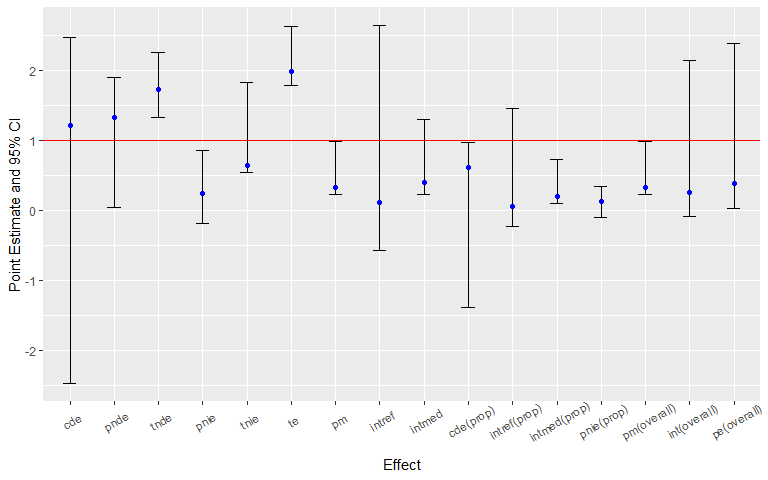
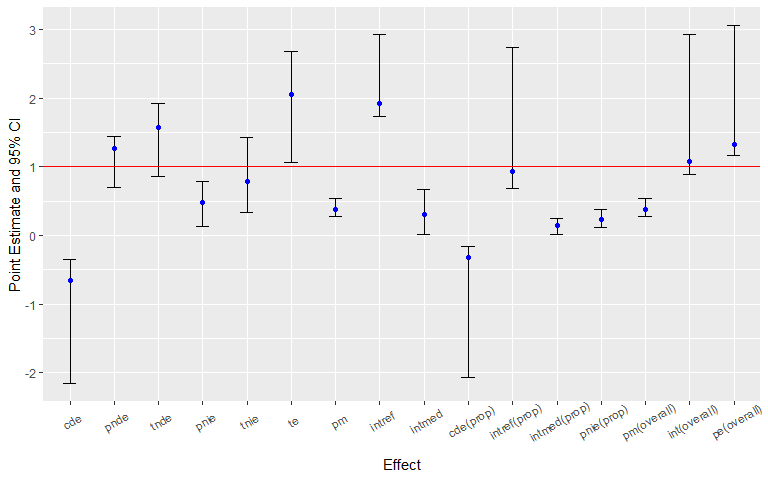
update readme

diff --git a/README.md b/README.md
@@ -1,17 +1,18 @@
-About the Package <img src="man/figures/logo.png" align="right" width="300" />
-==============================================================================
+CMAverse <img src="man/figures/logo.png" align="right" width="300" />
+=====================================================================
+
+About the Package
+-----------------
 
 The R package `CMAverse` provides a suite of functions conducting causal
 mediation analysis including `cmdag` for DAG visualization, `cmest` for
 statistical modeling and `cmsens` for sensitivity analysis.
 
-DAG Visualization
------------------
+### DAG Visualization
 
 `cmdag` visualizes the scientific setting via a DAG.
 
-Statistical Modeling
---------------------
+### Statistical Modeling
 
 `cmest` implements six causal mediation analysis approaches including
 *the regression-based approach* by [Valeri et
@@ -304,15 +305,13 @@ al. (2017)](https://www.ncbi.nlm.nih.gov/pmc/articles/PMC5285457/).
 </ol>
 </section>
 
-Multiple Imputation
--------------------
+### Multiple Imputation
 
 `cmest` provides options to perform multiple imputation for a dataset
 with missing values via the `mice` package, estimate the causal effects
 with each of the imputed datasets and pool the results together.
 
-Sensitivity Analysis
---------------------
+### Sensitivity Analysis
 
 `cmsens` conducts sensitivity analysis for unmeasured confounding via
 the *E-value* approach by [Vanderweele et
@@ -327,7 +326,7 @@ analysis for measurement error is currently available for *the
 regression-based approach* and *the g-formula approach*.
 
 Installation
-============
+------------
 
 The latest version can be installed via:
 
@@ -338,7 +337,7 @@ Load `CMAverse`:
     library(CMAverse)
 
 Quickstart Guide
-================
+----------------
 
 We illustrate the general workflow of the `CMAverse` package by a quick
 example. Firstly, let’s simulate some data and plot the DAG of the
@@ -392,23 +391,23 @@ Summarizing and plotting the results:
     ## Direct counterfactual imputation estimation with 
     ##  bootstrap standard errors, percentile confidence intervals and p-values 
     ##  
-    ##              Estimate Std.error  95% CIL 95% CIU  P.val    
-    ## cde           1.21497   2.26052 -2.47557   2.466    0.8    
-    ## pnde          1.33559   0.78559  0.04586   1.895    0.4    
-    ## tnde          1.73505   0.37712  1.33380   2.255 <2e-16 ***
-    ## pnie          0.24911   0.41200 -0.18441   0.864    0.4    
-    ## tnie          0.64857   0.64905  0.53822   1.823 <2e-16 ***
-    ## te            1.98416   0.40241  1.78599   2.633 <2e-16 ***
-    ## pm            0.32687   0.33692  0.23134   0.990 <2e-16 ***
-    ## intref        0.12062   1.63110 -0.57063   2.648    0.8    
-    ## intmed        0.39946   0.45104  0.23378   1.294 <2e-16 ***
-    ## cde(prop)     0.61234   1.09480 -1.38712   0.976    0.8    
-    ## intref(prop)  0.06079   0.87416 -0.22547   1.461    0.8    
-    ## intmed(prop)  0.20132   0.26985  0.10010   0.725 <2e-16 ***
-    ## pnie(prop)    0.12555   0.18259 -0.10587   0.336    0.4    
-    ## pm(overall)   0.32687   0.33692  0.23134   0.990 <2e-16 ***
-    ## int(overall)  0.26212   1.12482 -0.08580   2.151    0.8    
-    ## pe(overall)   0.38766   1.09480  0.02370   2.387 <2e-16 ***
+    ##               Estimate Std.error   95% CIL 95% CIU  P.val    
+    ## cde          -0.658963  0.753200 -2.155124  -0.347 <2e-16 ***
+    ## pnde          1.260381  0.341023  0.703075   1.437 <2e-16 ***
+    ## tnde          1.566422  0.481788  0.860943   1.920 <2e-16 ***
+    ## pnie          0.484661  0.260754  0.134236   0.784 <2e-16 ***
+    ## tnie          0.790702  0.448194  0.334669   1.434 <2e-16 ***
+    ## te            2.051083  0.664573  1.067875   2.683 <2e-16 ***
+    ## pm            0.385505  0.118009  0.276553   0.540 <2e-16 ***
+    ## intref        1.919344  0.534888  1.740029   2.926 <2e-16 ***
+    ## intmed        0.306041  0.280879  0.012723   0.671    0.4    
+    ## cde(prop)    -0.321276  0.841134 -2.061961  -0.165 <2e-16 ***
+    ## intref(prop)  0.935771  0.892701  0.685890   2.742 <2e-16 ***
+    ## intmed(prop)  0.149209  0.105678  0.009747   0.250    0.4    
+    ## pnie(prop)    0.236295  0.109643  0.113553   0.375 <2e-16 ***
+    ## pm(overall)   0.385505  0.118009  0.276553   0.540 <2e-16 ***
+    ## int(overall)  1.084980  0.912099  0.888015   2.926 <2e-16 ***
+    ## pe(overall)   1.321276  0.841134  1.165199   3.062 <2e-16 ***
     ## ---
     ## Signif. codes:  0 '***' 0.001 '**' 0.01 '*' 0.05 '.' 0.1 ' ' 1
 
@@ -425,13 +424,13 @@ analysis for unmeasured confounding:
     ## Sensitivity Analysis For Unmeasured Confounding 
     ## 
     ## Evalues on the ratio scale: 
-    ##         estRR   lowerRR  upperRR Evalue.estRR Evalue.lowerRR Evalue.upperRR
-    ## cde  1.581659 0.2981774 8.389788     2.540818       1.000000             NA
-    ## pnde 1.655315 0.9269371 2.956045     2.696830       1.000000             NA
-    ## tnde 1.924621 1.4569848 2.542350     3.258617       2.272963             NA
-    ## pnie 1.098562 0.8104973 1.489009     1.427615       1.000000             NA
-    ## tnie 1.277288 0.7910952 2.062287     1.872416       1.000000             NA
-    ## te   2.114315 1.5709906 2.845546     3.649245       2.518102             NA
+    ##          estRR   lowerRR  upperRR Evalue.estRR Evalue.lowerRR Evalue.upperRR
+    ## cde  0.7851671 0.4572158 1.348351     1.863935             NA              1
+    ## pnde 1.5881930 1.2432983 2.028763     2.554715       1.793291             NA
+    ## tnde 1.7769932 1.2573858 2.511325     2.952030       1.826274             NA
+    ## pnie 1.1946879 0.9907263 1.440639     1.676965       1.000000             NA
+    ## tnie 1.3367092 0.9689338 1.844080     2.007591       1.000000             NA
+    ## te   2.1229522 1.3174447 3.420960     3.666964       1.964141             NA
 
 Assume that the continuous pre-exposure confounder was measured with
 error. Sensitivity analysis using regression calibration with a set of
@@ -452,23 +451,23 @@ Summarizing and plotting the results:
     ## Measurement error 1: 
     ## 0.1
     ## Measurement error correction for measurement error 1: 
-    ##               Estimate Std.error   95% CIL 95% CIU  P.val    
-    ## cde            1.19554   2.00762  -3.48784   0.950    0.8    
-    ## pnde           1.17471   0.65886  -0.07400   1.582    0.4    
-    ## tnde           1.57518   1.11042  -0.71699   1.971    0.4    
-    ## pnie           0.25785   0.33003   0.02725   0.687 <2e-16 ***
-    ## tnie           0.65833   0.39499  -0.05483   0.938    0.4    
-    ## te             1.83304   0.97184  -0.11083   2.178    0.4    
-    ## pm             0.35914   0.11164   0.19328   0.468 <2e-16 ***
-    ## intref        -0.02083   1.48686  -0.15462   3.441    0.4    
-    ## intmed         0.40047   0.48112  -0.65646   0.394    0.4    
-    ## cde(prop)      0.65222   6.69072  -0.24788  13.792    0.4    
-    ## intref(prop)  -0.01136   6.70680 -13.13816   1.048    0.8    
-    ## intmed(prop)   0.21847   1.25079   0.14523   2.722 <2e-16 ***
-    ## pnie(prop)     0.14067   1.24420  -2.38016   0.311    0.4    
-    ## pm(overall)    0.35914   0.11164   0.19328   0.468 <2e-16 ***
-    ## int(overall)   0.20711   5.45838 -10.41587   1.217    0.4    
-    ## pe(overall)    0.34778   6.69072 -12.79197   1.248    0.4    
+    ##              Estimate Std.error  95% CIL 95% CIU  P.val    
+    ## cde          -0.65674   1.15974 -2.54844   0.047    0.4    
+    ## pnde          1.19921   0.29399  1.08291   1.777 <2e-16 ***
+    ## tnde          1.51534   0.44059  1.00878   2.093 <2e-16 ***
+    ## pnie          0.50405   0.07742  0.14731   0.326 <2e-16 ***
+    ## tnie          0.82018   0.21541  0.09792   0.635 <2e-16 ***
+    ## te            2.01939   0.39193  1.33069   2.251 <2e-16 ***
+    ## pm            0.40615   0.10805  0.07154   0.341 <2e-16 ***
+    ## intref        1.85595   1.17693  1.03627   3.789 <2e-16 ***
+    ## intmed        0.31613   0.25010 -0.21801   0.383    0.4    
+    ## cde(prop)    -0.32522   0.87462 -1.91334   0.038    0.4    
+    ## intref(prop)  0.91906   0.96821  0.68638   2.842 <2e-16 ***
+    ## intmed(prop)  0.15655   0.15395 -0.16667   0.201    0.4    
+    ## pnie(prop)    0.24961   0.07084  0.06766   0.243 <2e-16 ***
+    ## pm(overall)   0.40615   0.10805  0.07154   0.341 <2e-16 ***
+    ## int(overall)  1.07561   0.83390  0.81258   2.675 <2e-16 ***
+    ## pe(overall)   1.32522   0.87462  0.96153   2.913 <2e-16 ***
     ## ---
     ## Signif. codes:  0 '***' 0.001 '**' 0.01 '*' 0.05 '.' 0.1 ' ' 1
     ## ----------------------------------------------------------------
@@ -476,23 +475,23 @@ Summarizing and plotting the results:
     ## Measurement error 2: 
     ## 0.2
     ## Measurement error correction for measurement error 2: 
-    ##               Estimate Std.error   95% CIL 95% CIU  P.val    
-    ## cde           1.124562  1.770799 -1.412103   2.219    0.8    
-    ## pnde          1.189999  0.491102  0.608884   1.772 <2e-16 ***
-    ## tnde          1.656714  0.348845  1.411586   2.226 <2e-16 ***
-    ## pnie          0.304301  0.169844 -0.010145   0.413    0.4    
-    ## tnie          0.771016  0.179175  0.607145   1.000 <2e-16 ***
-    ## te            1.961015  0.416827  1.518569   2.435 <2e-16 ***
-    ## pm            0.393172  0.143507  0.262331   0.608 <2e-16 ***
-    ## intref        0.065437  1.374961 -0.622166   2.136    0.8    
-    ## intmed        0.466715  0.263536  0.349860   0.939 <2e-16 ***
-    ## cde(prop)     0.573459  0.927109 -0.923981   0.992    0.8    
-    ## intref(prop)  0.033369  0.794391 -0.357000   1.316    0.8    
-    ## intmed(prop)  0.237997  0.199035  0.187004   0.614 <2e-16 ***
-    ## pnie(prop)    0.155175  0.082509 -0.010518   0.178    0.4    
-    ## pm(overall)   0.393172  0.143507  0.262331   0.608 <2e-16 ***
-    ## int(overall)  0.271365  0.983915 -0.159368   1.930    0.8    
-    ## pe(overall)   0.426541  0.927109  0.007874   1.924 <2e-16 ***
+    ##              Estimate Std.error  95% CIL 95% CIU  P.val    
+    ## cde          -0.64918   1.68791 -4.21245  -0.470 <2e-16 ***
+    ## pnde          1.14238   0.31107  0.71326   1.407 <2e-16 ***
+    ## tnde          1.44868   0.51621  0.65003   1.770 <2e-16 ***
+    ## pnie          0.48309   0.51446  0.02835   1.161    0.4    
+    ## tnie          0.78939   0.56448 -0.08118   1.166    0.4    
+    ## te            1.93177   0.50443  1.06403   2.279 <2e-16 ***
+    ## pm            0.40864   0.32604 -0.11970   0.612    0.4    
+    ## intref        1.79156   1.71757  1.53814   5.317 <2e-16 ***
+    ## intmed        0.30631   0.26512 -0.15208   0.412    0.8    
+    ## cde(prop)    -0.33606   1.86465 -4.20911  -0.220 <2e-16 ***
+    ## intref(prop)  0.92742   2.15885  0.74632   5.300 <2e-16 ***
+    ## intmed(prop)  0.15856   0.14745 -0.15172   0.181    0.8    
+    ## pnie(prop)    0.25007   0.28615  0.01136   0.640    0.4    
+    ## pm(overall)   0.40864   0.32604 -0.11970   0.612    0.4    
+    ## int(overall)  1.08598   2.04926  0.81904   5.150 <2e-16 ***
+    ## pe(overall)   1.33606   1.86465  1.21986   5.209 <2e-16 ***
     ## ---
     ## Signif. codes:  0 '***' 0.001 '**' 0.01 '*' 0.05 '.' 0.1 ' ' 1
     ## ----------------------------------------------------------------
@@ -501,22 +500,22 @@ Summarizing and plotting the results:
     ## 0.3
     ## Measurement error correction for measurement error 3: 
     ##              Estimate Std.error  95% CIL 95% CIU  P.val    
-    ## cde           0.93539   1.33169  0.55883   3.806 <2e-16 ***
-    ## pnde          0.85948   0.65775  0.79198   2.423 <2e-16 ***
-    ## tnde          1.51864   0.36142  1.50884   2.316 <2e-16 ***
-    ## pnie          0.48632   0.32667 -0.04064   0.733    0.4    
-    ## tnie          1.14548   0.54798  0.14157   1.443 <2e-16 ***
-    ## te            2.00496   0.38865  1.97110   2.868 <2e-16 ***
-    ## pm            0.57132   0.24570  0.06535   0.639 <2e-16 ***
-    ## intref       -0.07591   0.88643 -1.91126   0.276    0.4    
-    ## intmed        0.65915   0.38534 -0.12810   0.740    0.8    
-    ## cde(prop)     0.46654   0.65712  0.23537   1.873 <2e-16 ***
-    ## intref(prop) -0.03786   0.44631 -0.94378   0.129    0.4    
-    ## intmed(prop)  0.32876   0.16882 -0.04454   0.330    0.8    
-    ## pnie(prop)    0.24256   0.14066 -0.02121   0.323    0.4    
-    ## pm(overall)   0.57132   0.24570  0.06535   0.639 <2e-16 ***
-    ## int(overall)  0.29090   0.53916 -0.85406   0.444    0.4    
-    ## pe(overall)   0.53346   0.65712 -0.87339   0.765    0.4    
+    ## cde          -0.63264   1.18666 -0.76658   1.974    0.8    
+    ## pnde          1.14597   0.23318  1.53113   2.055 <2e-16 ***
+    ## tnde          1.39469   0.30994  1.48052   2.254 <2e-16 ***
+    ## pnie          0.36014   0.28039  0.23721   0.937 <2e-16 ***
+    ## tnie          0.60885   0.51436  0.02607   1.168 <2e-16 ***
+    ## te            1.75482   0.51208  1.97122   3.178 <2e-16 ***
+    ## pm            0.34696   0.17514  0.01311   0.380 <2e-16 ***
+    ## intref        1.77861   1.07266  0.03970   2.664    0.4    
+    ## intmed        0.24871   0.33770 -0.46463   0.356    0.8    
+    ## cde(prop)    -0.36051   0.50942 -0.38418   0.804    0.8    
+    ## intref(prop)  1.01355   0.52337  0.02168   1.337    0.4    
+    ## intmed(prop)  0.14173   0.15566 -0.23645   0.146    0.8    
+    ## pnie(prop)    0.20523   0.07787  0.11231   0.298 <2e-16 ***
+    ## pm(overall)   0.34696   0.17514  0.01311   0.380 <2e-16 ***
+    ## int(overall)  1.15528   0.46607  0.03569   1.123    0.4    
+    ## pe(overall)   1.36051   0.50942  0.19632   1.384 <2e-16 ***
     ## ---
     ## Signif. codes:  0 '***' 0.001 '**' 0.01 '*' 0.05 '.' 0.1 ' ' 1
     ## ----------------------------------------------------------------
@@ -550,22 +549,22 @@ Summarizing and plotting the results:
     ## 
     ## Measurement error correction for measurement error 1: 
     ##               Estimate Std.error   95% CIL 95% CIU  P.val    
-    ## cde           2.936984  1.629964  0.136378   3.655 <2e-16 ***
-    ## pnde          1.435524  0.698628  0.621053   2.238 <2e-16 ***
-    ## tnde          1.776879  0.766657  1.058271   2.924 <2e-16 ***
-    ## pnie          0.406562  0.398353 -0.001866   0.967    0.4    
-    ## tnie          0.747917  0.340365  0.193597   0.979 <2e-16 ***
-    ## te            2.183441  0.789186  1.311018   3.203 <2e-16 ***
-    ## pm            0.342540  0.184586  0.099034   0.528 <2e-16 ***
-    ## intref       -1.501460  1.566942 -1.801200   2.007    0.8    
-    ## intmed        0.341354  0.365300 -0.174947   0.731    0.4    
-    ## cde(prop)     1.345117  0.688591  0.052206   1.549 <2e-16 ***
-    ## intref(prop) -0.687658  0.584253 -0.692864   0.626    0.8    
-    ## intmed(prop)  0.156338  0.165593 -0.062540   0.337    0.4    
-    ## pnie(prop)    0.186203  0.156157 -0.006196   0.369    0.4    
-    ## pm(overall)   0.342540  0.184586  0.099034   0.528 <2e-16 ***
-    ## int(overall) -0.531320  0.709605 -0.755404   0.861    0.8    
-    ## pe(overall)  -0.345117  0.688591 -0.549158   0.948    0.8    
+    ## cde          -1.852395  0.859350 -1.956986   0.069    0.4    
+    ## pnde          1.056125  1.129122  0.693214   3.273 <2e-16 ***
+    ## tnde          1.534459  1.006836  1.124244   3.300 <2e-16 ***
+    ## pnie          0.610474  0.769398 -0.652758   1.040    0.8    
+    ## tnie          1.088808  1.060440 -0.655003   1.878    0.4    
+    ## te            2.144934  0.948680  1.301169   3.674 <2e-16 ***
+    ## pm            0.507619  0.384139 -0.240492   0.715    0.4    
+    ## intref        2.908520  1.342883  1.051971   4.386 <2e-16 ***
+    ## intmed        0.478334  0.374663 -0.023435   0.838    0.4    
+    ## cde(prop)    -0.863614  0.580875 -1.390478   0.056    0.4    
+    ## intref(prop)  1.355995  0.718771  0.506159   2.243 <2e-16 ***
+    ## intmed(prop)  0.223007  0.142012 -0.008447   0.324    0.4    
+    ## pnie(prop)    0.284612  0.303861 -0.250209   0.424    0.8    
+    ## pm(overall)   0.507619  0.384139 -0.240492   0.715    0.4    
+    ## int(overall)  1.579002  0.748416  0.535665   2.421 <2e-16 ***
+    ## pe(overall)   1.863614  0.580875  0.944318   2.390 <2e-16 ***
     ## ---
     ## Signif. codes:  0 '***' 0.001 '**' 0.01 '*' 0.05 '.' 0.1 ' ' 1
     ## ----------------------------------------------------------------
@@ -576,23 +575,23 @@ Summarizing and plotting the results:
     ## [2,]  0.1  0.9
     ## 
     ## Measurement error correction for measurement error 2: 
-    ##              Estimate Std.error  95% CIL 95% CIU  P.val    
-    ## cde           0.90187   4.19656 -3.22046   6.733    0.8    
-    ## pnde          1.22989   1.26708  1.19556   3.947 <2e-16 ***
-    ## tnde          1.67922   0.94427  2.41142   4.529 <2e-16 ***
-    ## pnie          0.32255   0.39626 -0.52574   0.423    0.8    
-    ## tnie          0.77187   0.64744  0.05008   1.459 <2e-16 ***
-    ## te            2.00176   1.16914  2.01245   4.704 <2e-16 ***
-    ## pm            0.38560   0.21407  0.01714   0.533 <2e-16 ***
-    ## intref        0.32802   3.17101 -2.78562   4.517    0.8    
-    ## intmed        0.44933   0.75220 -0.33121   1.323    0.4    
-    ## cde(prop)     0.45054   1.34147 -1.62592   1.656    0.8    
-    ## intref(prop)  0.16387   1.26940 -0.68995   2.263    0.8    
-    ## intmed(prop)  0.22447   0.29267 -0.07511   0.656    0.4    
-    ## pnie(prop)    0.16113   0.16447 -0.26716   0.108    0.8    
-    ## pm(overall)   0.38560   0.21407  0.01714   0.533 <2e-16 ***
-    ## int(overall)  0.38833   1.49121 -0.75693   2.893    0.4    
-    ## pe(overall)   0.54946   1.34147 -0.65555   2.626    0.4    
+    ##               Estimate Std.error   95% CIL 95% CIU  P.val    
+    ## cde           0.659033  1.005064 -1.866819   0.469    0.4    
+    ## pnde          1.532504  0.835565  0.750680   2.646 <2e-16 ***
+    ## tnde          1.528524  0.666597  0.892012   2.324 <2e-16 ***
+    ## pnie          0.890843  0.374359 -0.052686   0.871    0.4    
+    ## tnie          0.886863  0.598130 -0.349485   1.064    0.4    
+    ## te            2.419367  0.495657  1.678021   2.797 <2e-16 ***
+    ## pm            0.366568  0.303014 -0.156683   0.592    0.4    
+    ## intref        0.873471  0.913881  1.990596   3.910 <2e-16 ***
+    ## intmed       -0.003980  0.403118 -0.472854   0.434    0.8    
+    ## cde(prop)     0.272399  0.446358 -0.922287   0.154    0.4    
+    ## intref(prop)  0.361033  0.376626  0.770847   1.727 <2e-16 ***
+    ## intmed(prop) -0.001645  0.177041 -0.199868   0.175    0.8    
+    ## pnie(prop)    0.368213  0.202856 -0.025589   0.488    0.4    
+    ## pm(overall)   0.366568  0.303014 -0.156683   0.592    0.4    
+    ## int(overall)  0.359388  0.459747  0.595279   1.623 <2e-16 ***
+    ## pe(overall)   0.727601  0.446358  0.845966   1.922 <2e-16 ***
     ## ---
     ## Signif. codes:  0 '***' 0.001 '**' 0.01 '*' 0.05 '.' 0.1 ' ' 1
     ## ----------------------------------------------------------------
@@ -603,7 +602,7 @@ Summarizing and plotting the results:
 ![](README_files/figure-markdown_strict/plot_cmsens_me_cat-1.png)
 
 References
-==========
+----------
 
 Valeri L, Vanderweele TJ (2013). Mediation analysis allowing for
 exposure-mediator interactions and causal interpretation: theoretical
